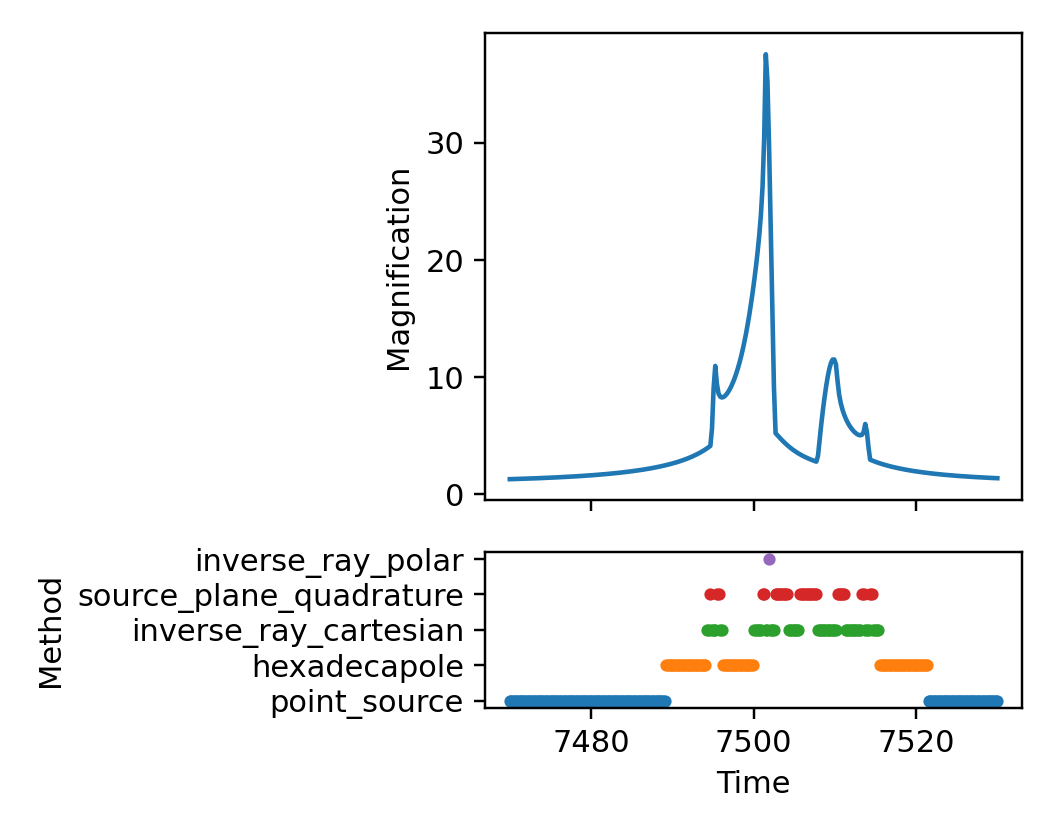
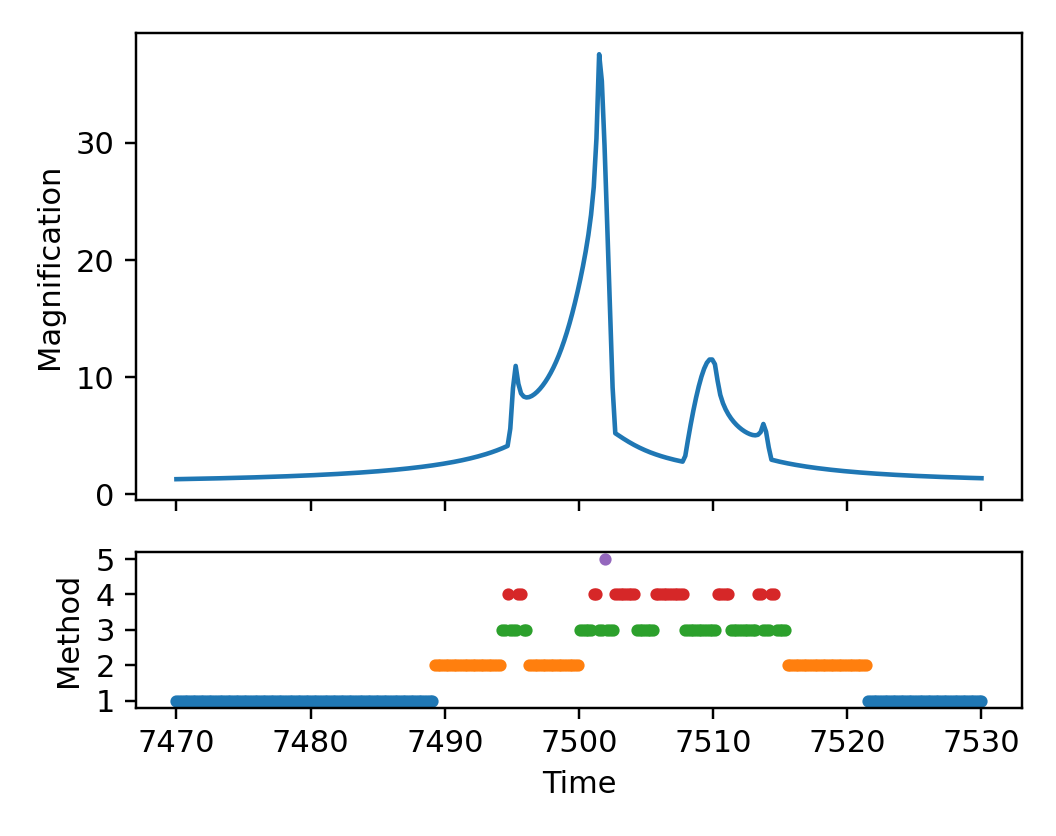
docs: simplify accuracy method plot labels

diff --git a/example/docs-python/generate_figures.py b/example/docs-python/generate_figures.py
@@ -410,10 +410,10 @@ def accuracy_method_selection():
     )
     light_ax.plot(times, magnifications)
     light_ax.set_ylabel("Magnification")
-    for level, name in enumerate(names):
+    for level, name in enumerate(names, start=1):
         selected = methods == name
         method_ax.scatter(times[selected], np.full(selected.sum(), level), s=9)
-    method_ax.set_yticks(range(len(names)), names)
+    method_ax.set_yticks(range(1, len(names) + 1))
     method_ax.set(xlabel="Time", ylabel="Method")
     fig.tight_layout()
     plt.savefig(OUTPUT / "Accuracy_method_selection.png", dpi=220)

diff --git a/docs/python/AccuracyControl.md b/docs/python/AccuracyControl.md
@@ -125,20 +125,28 @@ curve = lcbinint.LightCurve(options=automatic)
 info = curve.info(t, params)
 
 method_names = list(dict.fromkeys(info.finite_source_method_names))
-method_index = {name: index for index, name in enumerate(method_names)}
+method_index = {name: index for index, name in enumerate(method_names, start=1)}
 selected = [method_index[name] for name in info.finite_source_method_names]
 
 fig, (mag_ax, method_ax) = plt.subplots(2, 1, sharex=True, figsize=(4.8, 3.8))
 mag_ax.plot(t, info.magnifications)
 mag_ax.set_ylabel("Magnification")
 method_ax.scatter(t, selected, s=10)
-method_ax.set_yticks(range(len(method_names)), method_names)
+method_ax.set_yticks(range(1, len(method_names) + 1))
 method_ax.set(xlabel="Time", ylabel="Method")
 fig.tight_layout()
 plt.show()
 ```
 
 ![Automatic method selection](figures/Accuracy_method_selection.png)
+
+The method numbers in the lower panel are:
+
+1. `point_source` — point-source approximation.
+2. `hexadecapole` — fourth-order finite-source approximation.
+3. `inverse_ray_cartesian` — Cartesian inverse ray shooting.
+4. `source_plane_quadrature` — direct source-plane integration.
+5. `inverse_ray_polar` — polar inverse ray shooting.
 
 For the calibration evidence and the exact retry rules, continue to
 [Numerical methods](../numerical-methods.md).
